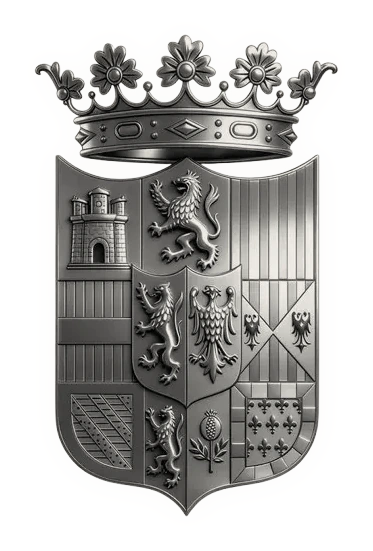
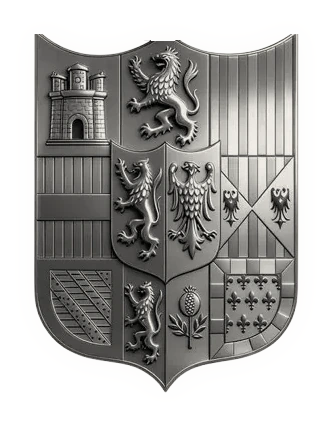
homepage updations

diff --git a/app/globals.css b/app/globals.css
@@ -1,5 +1,16 @@
 @import "tailwindcss";
 
+/* Bodoni Moda Bold — the same typeface (and optical size) as the big JHV letters behind the portrait.
+   A 13 KB subset sits next to this file in app/fonts/ (SIL Open Font License, see OFL.txt there). It is
+   declared here, not in layout.jsx, so the name always picks it up and nothing is fetched from Google. */
+@font-face {
+  font-family: "JHV Bodoni";
+  src: url("./fonts/BodoniModa-Bold.woff2") format("woff2");
+  font-weight: 700;
+  font-style: normal;
+  font-display: swap;
+}
+
 :root {
   --ink: #0a0a0a;
   /* Soft stone tone matching the mono portrait highlights — not pure white */
@@ -8,11 +19,14 @@
   --pad: 20px;
   --vh-full: 100vh;
   --banner-lines: 2;
-  /* Mobile: open tracking so all-caps stay legible and professional */
-  --banner-ls: -.018em;
+  /* The name is set in Bodoni Moda Bold (same as the JHV letters). The divisors below are measured
+     from the font: the full name is ~14.1em wide on one line, its longest mobile line ~8.6em, so
+     the text fills about 95% of the width. A bigger divisor = smaller name. */
+  --name-font: "JHV Bodoni", "Bodoni 72", Didot, "Bodoni MT", "Times New Roman", serif;
+  --banner-ls: -.005em;
   --banner-lh: .94;
   --banner-pad-y: 36px;
-  --banner-fs: clamp(26px, calc((100vw - 2 * var(--pad)) / 7.4), 48px);
+  --banner-fs: clamp(22px, calc((100vw - 2 * var(--pad)) / 9), 54px);
   --banner-h: calc(var(--banner-fs) * var(--banner-lh) * var(--banner-lines) + var(--banner-pad-y));
   --hero-h: max(260px, calc(var(--vh-full) - var(--banner-h)));
 }
@@ -21,9 +35,9 @@
   :root {
     --banner-lines: 1;
     --banner-lh: .8;
-    /* Desktop: condensed but with readable gaps between words */
-    --banner-ls: -.025em;
-    --banner-fs: clamp(44px, calc((100vw - 2 * var(--pad)) / 10), 320px);
+    /* Desktop: the whole name on one line, filling the width */
+    --banner-ls: -.005em;
+    --banner-fs: clamp(30px, calc((100vw - 2 * var(--pad)) / 14.8), 216px);
   }
 }
 @media (min-width: 768px) { :root { --pad: 32px; } }
@@ -39,6 +53,8 @@ button { font: inherit; }
 
 .display-font { font-family: Impact, Haettenschweiler, "Arial Narrow Bold", sans-serif-condensed, "Roboto Condensed", sans-serif; letter-spacing: -.045em; }
 .body-font { font-family: Arial, Helvetica, sans-serif; letter-spacing: -.025em; }
+/* The name wordmark (banner + header) — same typeface as the JHV letters behind the portrait */
+.name-font { font-family: var(--name-font); font-weight: 700; }
 
 .pixel-map { position: fixed; inset: 0; z-index: 0; width: 100%; height: 100%; display: block; opacity: .95; pointer-events: none; }
 
@@ -137,8 +153,8 @@ button { font: inherit; }
   --fx-letters-scale: .7;   /* JHV size: 1 = the original size, .7 = 30% smaller, .5 = half */
   --fx-letters-w: calc(min(calc(var(--home-person-w) * 1.24), 94vw) * var(--fx-letters-scale)); /* width of the JHV monogram */
   --fx-letters-y: calc(var(--home-person-w) * .408);            /* its centre, measured up from the banner */
-  --fx-crest-w: min(calc(var(--home-person-w) * .6), 92vw);     /* width of the crest image */
-  --fx-crest-y: calc(var(--home-person-w) * .4);                /* crest centre, measured up from the banner */
+  --fx-crest-w: min(calc(var(--home-person-w) * .65), 92vw);    /* width of the crest image */
+  --fx-crest-y: calc(var(--home-person-w) * .44);               /* crest centre, measured up from the banner — higher = further up */
   --fx-crest-opacity: .5;  /* how solid the crest is — lower = more see-through, JHV stays clearer */
   --fx-scrim: .85;         /* strength of the soft dark scrim behind the letters (0 = off) */
   --fx-light: 241, 238, 231;                                    /* rgb of the light accents (neutral stone) */
@@ -174,7 +190,7 @@ button { font: inherit; }
 .fx-crest {
   top: calc(100% - var(--fx-crest-y));
   width: var(--fx-crest-w);
-  aspect-ratio: 373 / 551;
+  aspect-ratio: 333 / 427;
   animation: fx-rise 1.9s cubic-bezier(.16, 1, .3, 1) .3s backwards;
 }
 .fx-crest__img { display: block; width: 100%; height: auto; max-width: none; opacity: var(--fx-crest-opacity); }
@@ -262,7 +278,7 @@ button { font: inherit; }
   overflow: hidden;
   text-align: right;
   text-transform: uppercase;
-  font-family: Impact, Haettenschweiler, "Arial Narrow Bold", "Roboto Condensed", "Arial Narrow", sans-serif-condensed, sans-serif;
+  font-family: var(--name-font);
   font-size: var(--banner-fs);
   font-weight: 700;
   line-height: var(--banner-lh);
@@ -280,8 +296,7 @@ button { font: inherit; }
 @media (min-width: 560px) {
   .banner-name {
     white-space: nowrap;
-    /* Strong word gaps so HERRERA / VELUTINI never collide */
-    word-spacing: 0.22em;
+    word-spacing: 0.12em;
   }
   .banner-name > span {
     display: inline;

diff --git a/app/components/Header.jsx b/app/components/Header.jsx
@@ -14,7 +14,7 @@ export default function Header() {
       <div className="relative">
         <Link
           href="/"
-          className="display-font -m-2 block p-2 text-left text-[11px] leading-[.9] tracking-[-.03em] whitespace-nowrap min-[360px]:text-[12px] md:text-[14px]"
+          className="name-font -m-2 block p-2 text-left text-[11px] leading-[.9] tracking-[.02em] whitespace-nowrap min-[360px]:text-[12px] md:text-[14px]"
         >
           JULIO HERRERA VELUTINI
         </Link>

diff --git a/app/components/HeroBackdrop.jsx b/app/components/HeroBackdrop.jsx
@@ -21,7 +21,7 @@ import { JHV_HEIGHT, JHV_PATHS, JHV_WIDTH } from "./hero-glyphs";
  */
 
 // public/crest.webp — its pixel size
-const CREST = { src: "/crest.webp", width: 373, height: 551 };
+const CREST = { src: "/crest.webp", width: 333, height: 427 };
 
 // 3×3 pixel-square accent: f = bright, o = outline, d = dim
 const PIXELS = ["d", "o", "f", "o", "d", "o", "f", "o", "d"];
